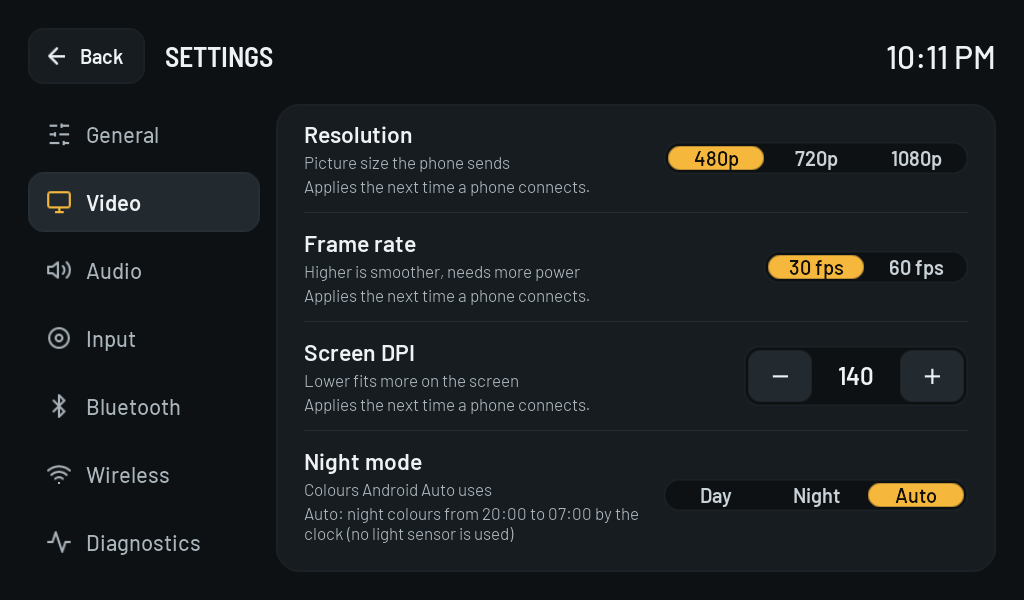
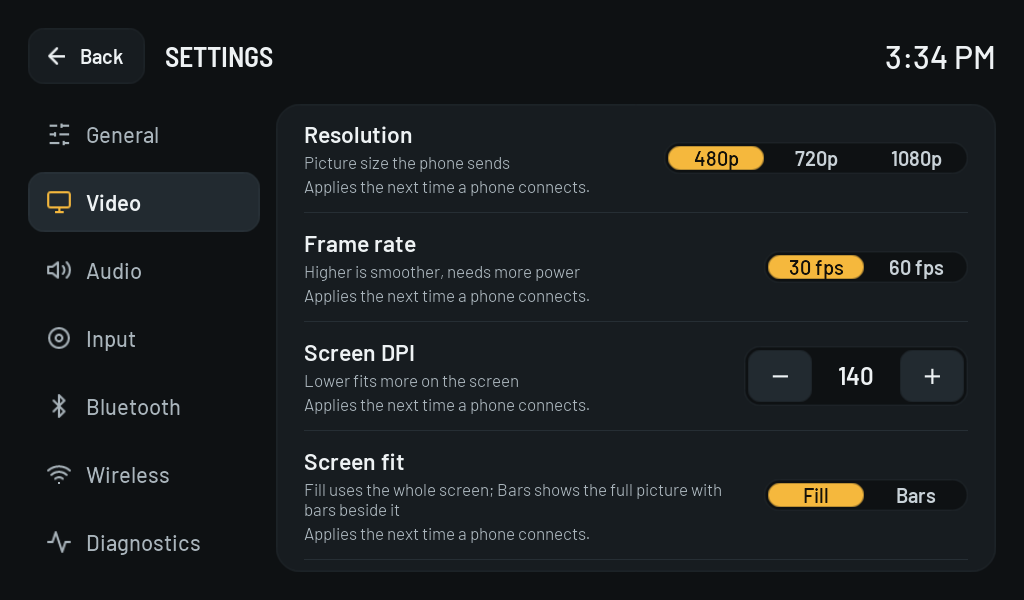
docs: clearer README with quick start, diagram and new screenshots 📝

Changed region(s): [[0.2812, 0.75, 0.7188, 0.9], [0.75, 0.78, 0.9688, 0.87], [0.8438, 0.06, 0.9375, 0.12]]

diff --git a/README.md b/README.md
@@ -1,69 +1,74 @@
-# OpenAuto
+<p align="center">
+  <img src="app/src/main/res/mipmap-xxxhdpi/ic_launcher.png" width="88" alt="OpenAuto icon">
+</p>
 
-A lightweight Android Auto receiver for old Android car radios.
+<h1 align="center">OpenAuto</h1>
 
-![Launcher](docs/images/launcher.png)
+<p align="center">
+  Android Auto on the Android car radio you already have, even an old and slow one.
+</p>
 
-OpenAuto turns an Android head unit into an Android Auto receiver: connect a phone and its Android
-Auto interface appears on the radio's screen, with touch, music, navigation prompts and the
-microphone. It is written from scratch in Java against the plain platform APIs, so it runs on
-Android 4.1 (API 16) and on slow hardware. The APK is about 1 MB.
+<p align="center">
+  <img src="https://img.shields.io/badge/Android-4.1%2B-3ddc84" alt="Android 4.1+">
+  <img src="https://img.shields.io/badge/minSdk-16-blue" alt="minSdk 16">
+  <img src="https://img.shields.io/badge/APK-~1%20MB-f5b83d" alt="APK about 1 MB">
+  <img src="https://img.shields.io/badge/language-Java-orange" alt="Java">
+</p>
+
+<p align="center">
+  <img src="docs/images/launcher.png" width="760" alt="OpenAuto launcher">
+</p>
+
+OpenAuto is an Android Auto receiver. Install it on an Android head unit, connect a phone, and the
+phone's Android Auto interface appears on the radio's screen with touch, music, navigation prompts
+and the microphone.
+
+It is written from scratch in Java against the plain platform APIs: no AndroidX, no Kotlin, no
+frameworks. That keeps the APK at about 1 MB and lets it run on Android 4.1 with a few hundred
+megabytes of RAM, the kind of radio that never got Android Auto from its manufacturer.
 
 > Not affiliated with or endorsed by Google. Android Auto is a trademark of Google LLC. Google does
 > not document the head-unit protocol; this implementation follows what open-source projects have
 > worked out, see [docs/protocol-reference.md](docs/protocol-reference.md).
 
+## Contents
+
+[Features](#features) · [Quick start](#quick-start) · [Connecting a phone](#connecting-a-phone) ·
+[Settings](#settings) · [How it works](#how-it-works) · [Status](#status) ·
+[Troubleshooting](#troubleshooting) · [Building](#building) · [Development](#development)
+
 ## Features
-
-- **Wired** over USB (Android Open Accessory), **wireless** over Wi-Fi by IP address, automatic
-  wireless over Bluetooth and a hotspot (experimental), and **Self Mode** for a device that runs
-  Android Auto itself (Android 9+).
-- H.264 video through `MediaCodec` straight to a Surface, hardware decoder first.
-- Touch, media audio, navigation and assistant audio, microphone.
-- Fits any landscape screen shape without stretching: the phone is asked to lay out for the
-  screen's aspect ratio (video margins) and the margins are cropped.
-- Fast encryption on Android 4.1–5.1 through the device's own OpenSSL, with a pure-Java fallback.
-- Reconnects after a dropped connection; clean stop from either side.
-- Diagnostics screen: device facts, decoders, USB devices, encryption speed, connection log.
-- No AndroidX, no Kotlin, no bundled native libraries. One dependency (BouncyCastle TLS).
-
-## Status
 
 | | |
 |---|---|
-| Wi-Fi by IP address | Works with a real phone (Samsung SM-S948B, protocol 1.7) on emulators and on a real radio |
-| Wired USB | Connects and projects on a real radio (ADAYO AC822X, Android 4.2.2, 1920x720) |
-| Video, touch, media audio | Work; 30 fps on the emulators |
-| Automatic wireless | Implemented, not yet verified with a phone |
-| Microphone | Channel works; capture not yet exercised with the assistant |
-| Phone calls, steering-wheel keys, start on boot | Not implemented |
+| **Three ways to connect** | USB cable, Wi-Fi by IP address, or automatic wireless over Bluetooth and a hotspot (experimental) |
+| **Self Mode** | Runs against Android Auto on the same device (Android 9+) |
+| **Video** | H.264 through the hardware decoder straight to the screen, 480p to 1080p, 30 or 60 fps |
+| **Any screen shape** | The phone lays out for the radio's aspect ratio, so wide 8:3 screens are filled without stretching |
+| **Audio** | Music, navigation prompts and the assistant, with ducking; microphone for voice commands |
+| **Touch** | Mapped to the phone's coordinates; media keys are passed on |
+| **Fast on old hardware** | Encryption runs through the system's own OpenSSL on Android 4.1–5.1 |
+| **Robust** | Reconnects after a dropped connection; clean stop from either side |
+| **Diagnostics** | Device facts, decoders, USB devices, encryption speed and a connection log on one screen |
 
-The latest fixes (video artifacts, sound without picture on USB, USB permission wait) are verified
-on emulators and still need a run on the radio. Details per feature: [docs/STATUS.md](docs/STATUS.md);
-measurements and test logs: [docs/TEST-RESULTS.md](docs/TEST-RESULTS.md).
+<p align="center">
+  <img src="docs/images/settings.png" width="49%" alt="Video settings">
+  <img src="docs/images/diagnostics.png" width="49%" alt="Diagnostics">
+</p>
 
-![Settings](docs/images/settings.png)
+## Quick start
 
-## Install
+1. Install the APK from [dist/](dist/) on the head unit:
 
-A debug build is in [dist/](dist/):
+   ```bash
+   adb install -r dist/openauto-0.1.0-debug.apk
+   ```
 
-```bash
-adb install -r dist/openauto-0.1.0-debug.apk
-```
+2. Plug the phone into the radio's USB port and tap **Wired**. Confirm the two USB dialogs; tick
+   "use by default" on the second one.
+3. Android Auto starts on the phone and shows up on the radio.
 
-## Build
-
-Android Gradle Plugin 9.3.3, Gradle 9.5.0 (wrapper), JDK 21 (the Android Studio JBR works), compileSdk
-36, minSdk 16, NDK 23.2.8568313 and CMake 3.22.1 from the SDK manager (they build a small JNI shim,
-see [docs/DEPENDENCIES.md](docs/DEPENDENCIES.md)).
-
-```bash
-./gradlew :app:testDebugUnitTest :app:lintDebug :app:assembleDebug
-```
-
-Output: `app/build/outputs/apk/debug/app-debug.apk`. `assembleRelease` produces an unsigned APK until
-a signing config is added.
+No USB port that Android can see? Use [Wi-Fi](#wireless-by-ip-address) instead.
 
 ## Connecting a phone
 
@@ -103,8 +108,15 @@ launcher; Android Auto's own Exit entry returns to the launcher and keeps the co
 
 ## Settings
 
-General (keep screen on, auto-start, diagnostics, reset), Video, Audio (media, navigation and
-assistant, microphone), Input (media keys, Back key), Bluetooth, Wireless.
+| Category | What it holds |
+|---|---|
+| General | Keep screen on, start when a phone is plugged in, reset |
+| Video | Resolution, frame rate, DPI, screen fit, video output, decoder, day and night colours |
+| Audio | Media, navigation and assistant audio, microphone |
+| Input | Media keys, Back key behaviour |
+| Bluetooth | Adapter state, discoverable, phone for wireless |
+| Wireless | Automatic connection, hotspot, manual connection, reconnect |
+| Diagnostics | Everything needed to tell why something does not work |
 
 Head units differ, so three Video settings are there to adapt:
 
@@ -114,22 +126,80 @@ Head units differ, so three Video settings are there to adapt:
 | Video output: Auto / Direct / Direct 2 / Compatible | Auto | the picture is squeezed or shifted: try the next one. Direct and Direct 2 use the display hardware (fast) and differ in how the margins are cropped; Compatible draws the frame itself (always right, slower on weak GPUs) |
 | Decoder: Hardware / Software | Hardware | the picture is corrupt or missing |
 
+## How it works
+
+```mermaid
+flowchart LR
+    phone["Phone<br>Android Auto"]
+    subgraph unit["Head unit: OpenAuto"]
+        direction LR
+        transport["USB accessory<br>or TCP"] --- session["Framing, TLS,<br>session"]
+        session --> video["Video"] --> codec["MediaCodec<br>to the screen"]
+        session --> audio["Audio"] --> track["AudioTrack"]
+        mic["Microphone"] --> session
+        touch["Touch, keys"] --> session
+    end
+    phone <--> transport
+```
+
+The phone is the server and does the heavy lifting: it renders its interface, encodes it as H.264
+and sends it together with PCM audio. The head unit authenticates with TLS, announces its screen,
+audio and input capabilities, decodes what arrives and sends touch and microphone data back. Each
+kind of data has its own channel inside one multiplexed, encrypted connection.
+
+The protocol core in [`aa/`](app/src/main/java/me/ri3d/openauto/aa) is plain Java without Android
+dependencies. More in the [design notes](docs/DESIGN.md) and the
+[protocol reference](docs/protocol-reference.md).
+
+## Status
+
+| | |
+|---|---|
+| Wi-Fi by IP address | Works |
+| Wired USB | Connects and projects on a real radio (ADAYO AC822X, Android 4.2.2, 1920x720) |
+| Video, touch, media audio | Work; 30 fps on the emulators |
+| Automatic wireless | Implemented, not yet verified with a phone |
+| Microphone | Channel works; capture not yet exercised with the assistant |
+| Phone calls, steering-wheel keys, start on boot | Not implemented |
+
+The latest fixes (video artifacts, sound without picture on USB, USB permission wait) are verified
+on emulators and still need a run on the radio. Details per feature: [docs/STATUS.md](docs/STATUS.md);
+measurements and test logs: [docs/TEST-RESULTS.md](docs/TEST-RESULTS.md).
+
 ## Troubleshooting
 
-- **"The phone accepted the connection but did not answer"**: stop and start the head unit server
-  in Android Auto's developer settings and keep the phone awake.
-- **Squeezed or shifted picture, or low frame rate**: Settings › Video › Video output.
-- **Collecting logs from a radio**: `tools/collect-radio-logs.ps1` gathers logcat, compositor and
-  CPU information over ADB while you reproduce the problem:
+| Problem | What to do |
+|---|---|
+| "The phone accepted the connection but did not answer" | Stop and start the head unit server in Android Auto's developer settings and keep the phone awake |
+| Squeezed or shifted picture, or low frame rate | Settings › Video › Video output: try the next option |
+| Corrupt or missing picture | Settings › Video › Decoder: Software |
+| The phone is not found on USB | Settings › Diagnostics lists each USB device with a "phone / not a phone" verdict; switch the phone to file transfer |
+| Wired says "USB host not supported" | The radio's USB port is not wired to Android; use Wi-Fi |
 
-  ```bash
-  powershell -ExecutionPolicy Bypass -File tools\collect-radio-logs.ps1 <radio-ip>
-  ```
+To report a problem, collect logs while reproducing it:
+
+```bash
+powershell -ExecutionPolicy Bypass -File tools\collect-radio-logs.ps1 <radio-ip>
+```
+
+The script gathers logcat, compositor state and CPU usage over ADB into `radio-logs/`.
+
+## Building
+
+Android Gradle Plugin 9.3.3, Gradle 9.5.0 (wrapper), JDK 21 (the Android Studio JBR works), compileSdk
+36, minSdk 16, NDK 23.2.8568313 and CMake 3.22.1 from the SDK manager (they build a small JNI shim,
+see [docs/DEPENDENCIES.md](docs/DEPENDENCIES.md)).
+
+```bash
+./gradlew :app:testDebugUnitTest :app:lintDebug :app:assembleDebug
+```
+
+Output: `app/build/outputs/apk/debug/app-debug.apk`. `assembleRelease` produces an unsigned APK until
+a signing config is added.
 
 ## Development
 
-The protocol core (`app/src/main/java/me/ri3d/openauto/aa`) has no Android dependencies and is
-tested on the JVM against a scripted phone:
+The protocol core is tested on the JVM against a scripted phone, which can also serve an emulator:
 
 ```bash
 # a scripted phone on port 5277 that streams an H.264 Annex B file
@@ -150,9 +220,9 @@ production session against a real phone from the build machine and traces every 
 | `ui/`, `settings/`, `diag/` | views, settings rows, diagnostics |
 | `src/main/cpp/` | JNI shim over the system's OpenSSL |
 
-Documentation: [design notes](docs/DESIGN.md), [dependencies](docs/DEPENDENCIES.md),
-[protocol reference](docs/protocol-reference.md), [feature status](docs/STATUS.md),
-[test results](docs/TEST-RESULTS.md).
+Documentation: [design notes](docs/DESIGN.md) · [dependencies](docs/DEPENDENCIES.md) ·
+[protocol reference](docs/protocol-reference.md) · [feature status](docs/STATUS.md) ·
+[test results](docs/TEST-RESULTS.md)
 
 ## Known limitations
 
